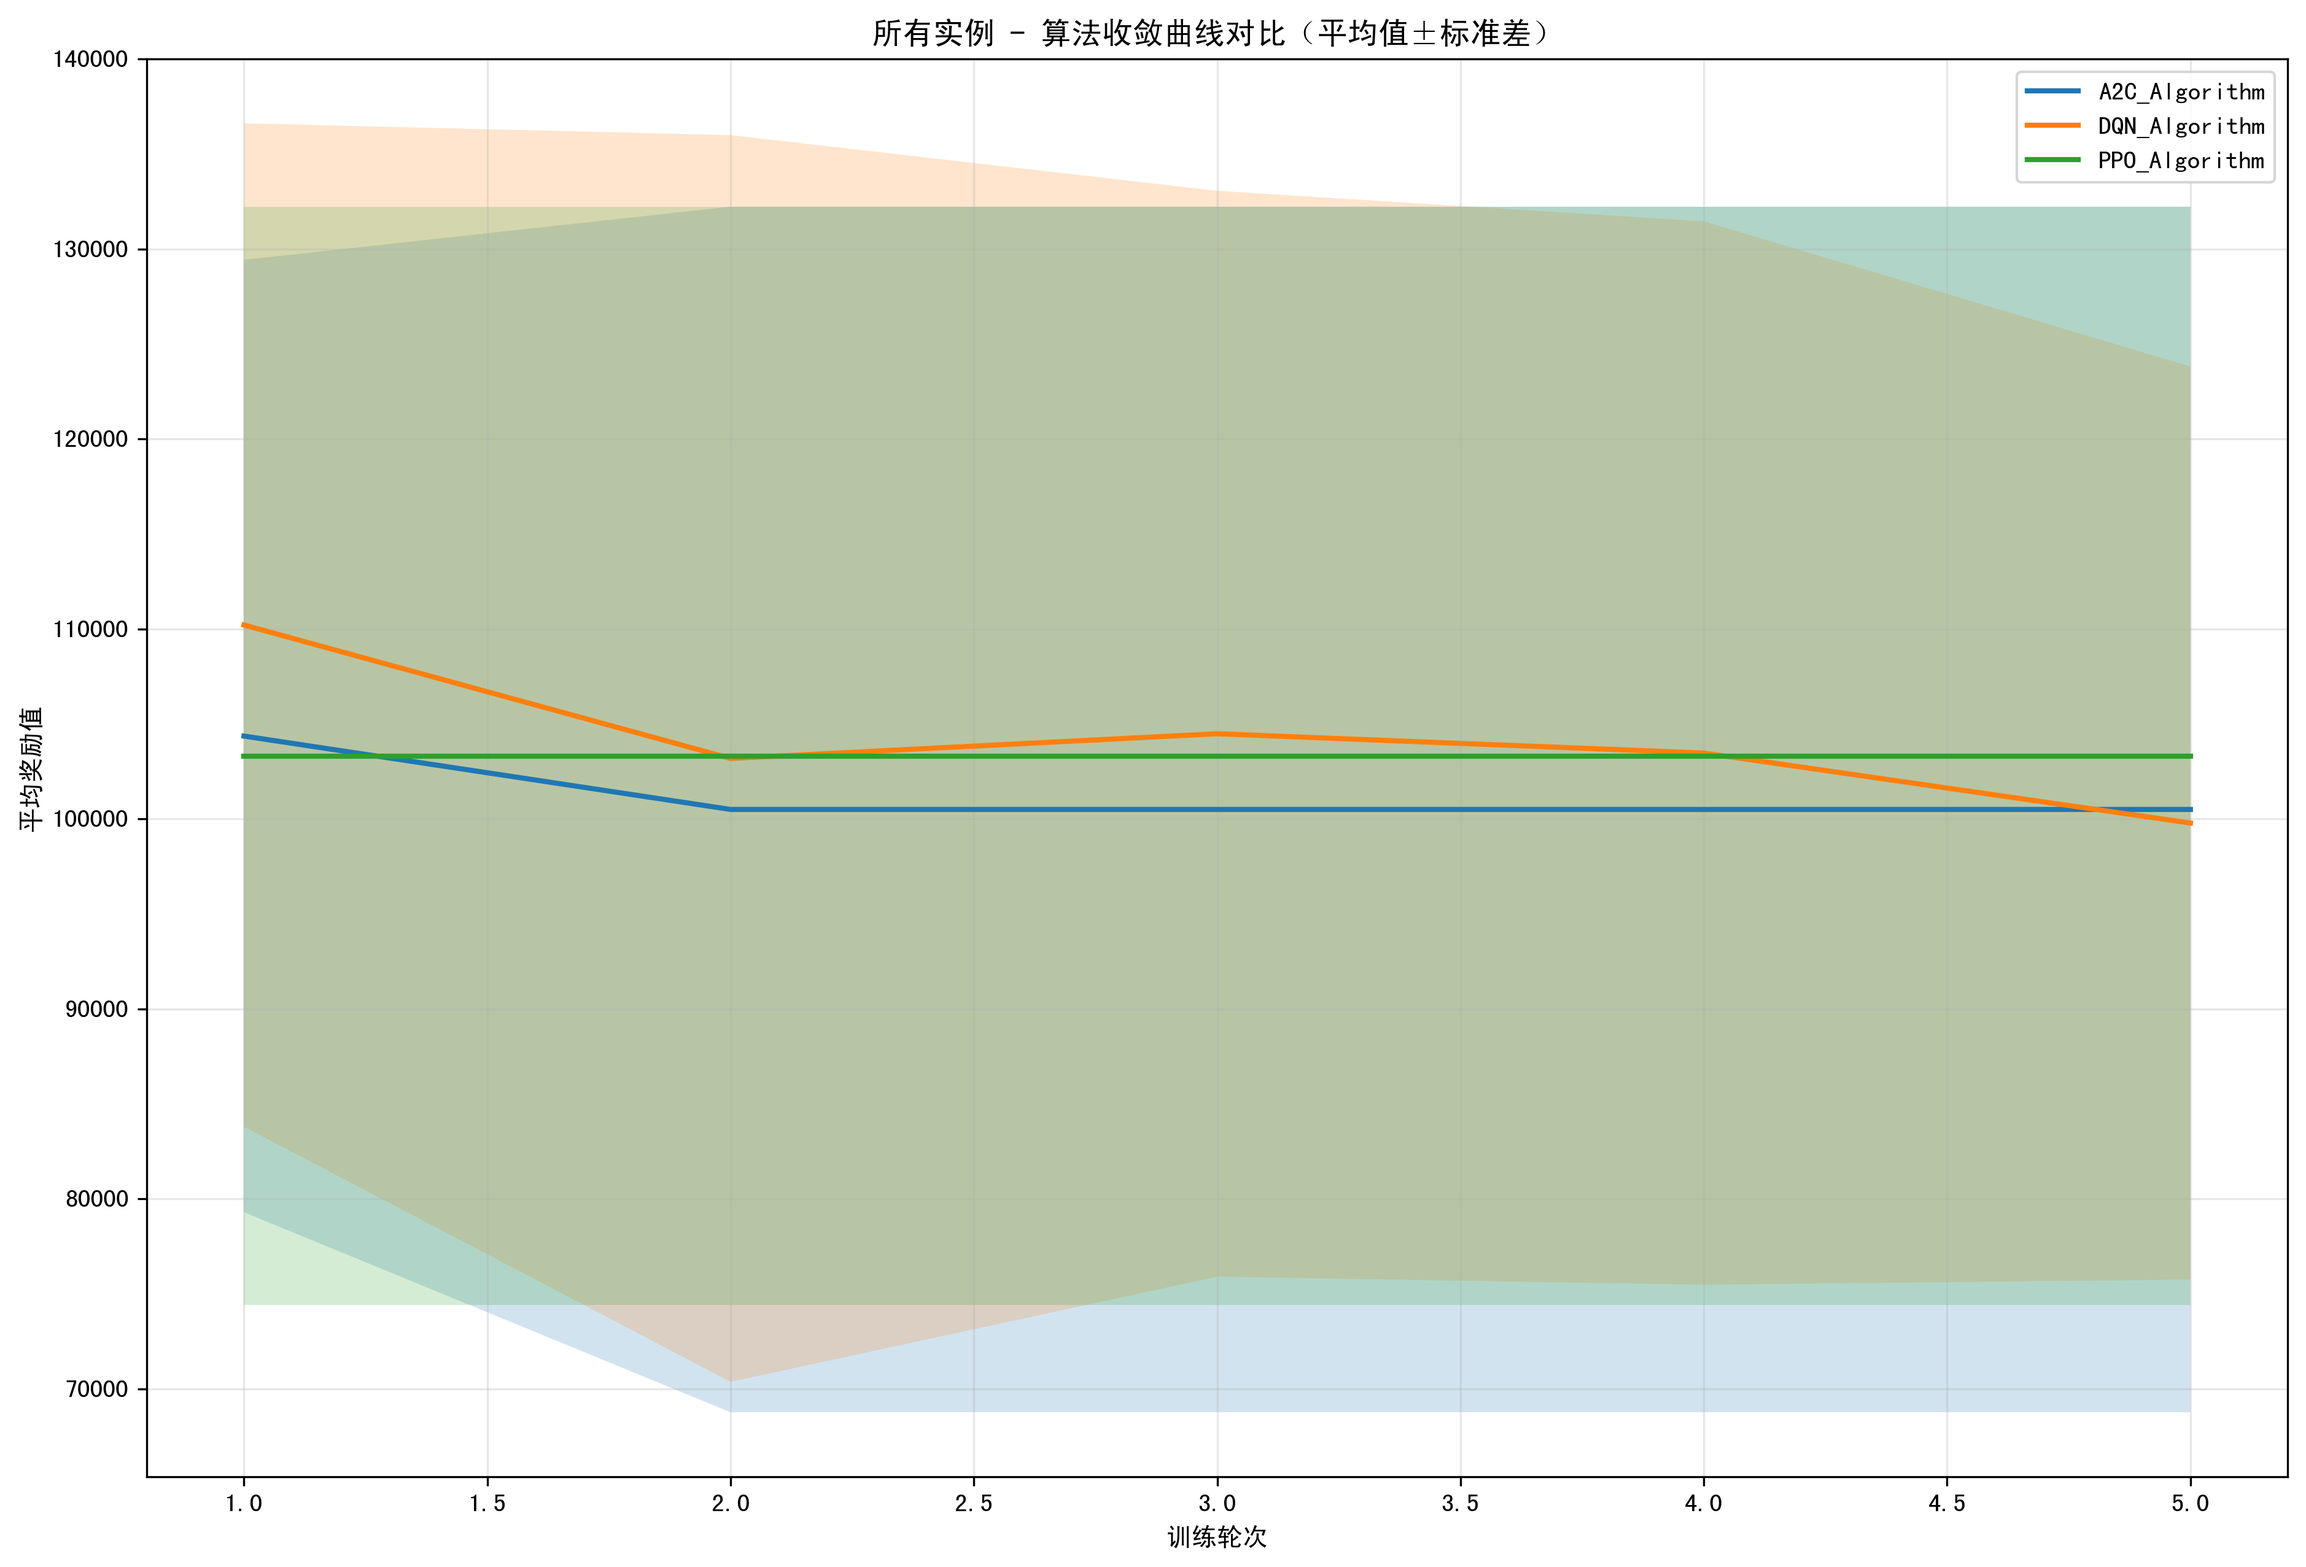
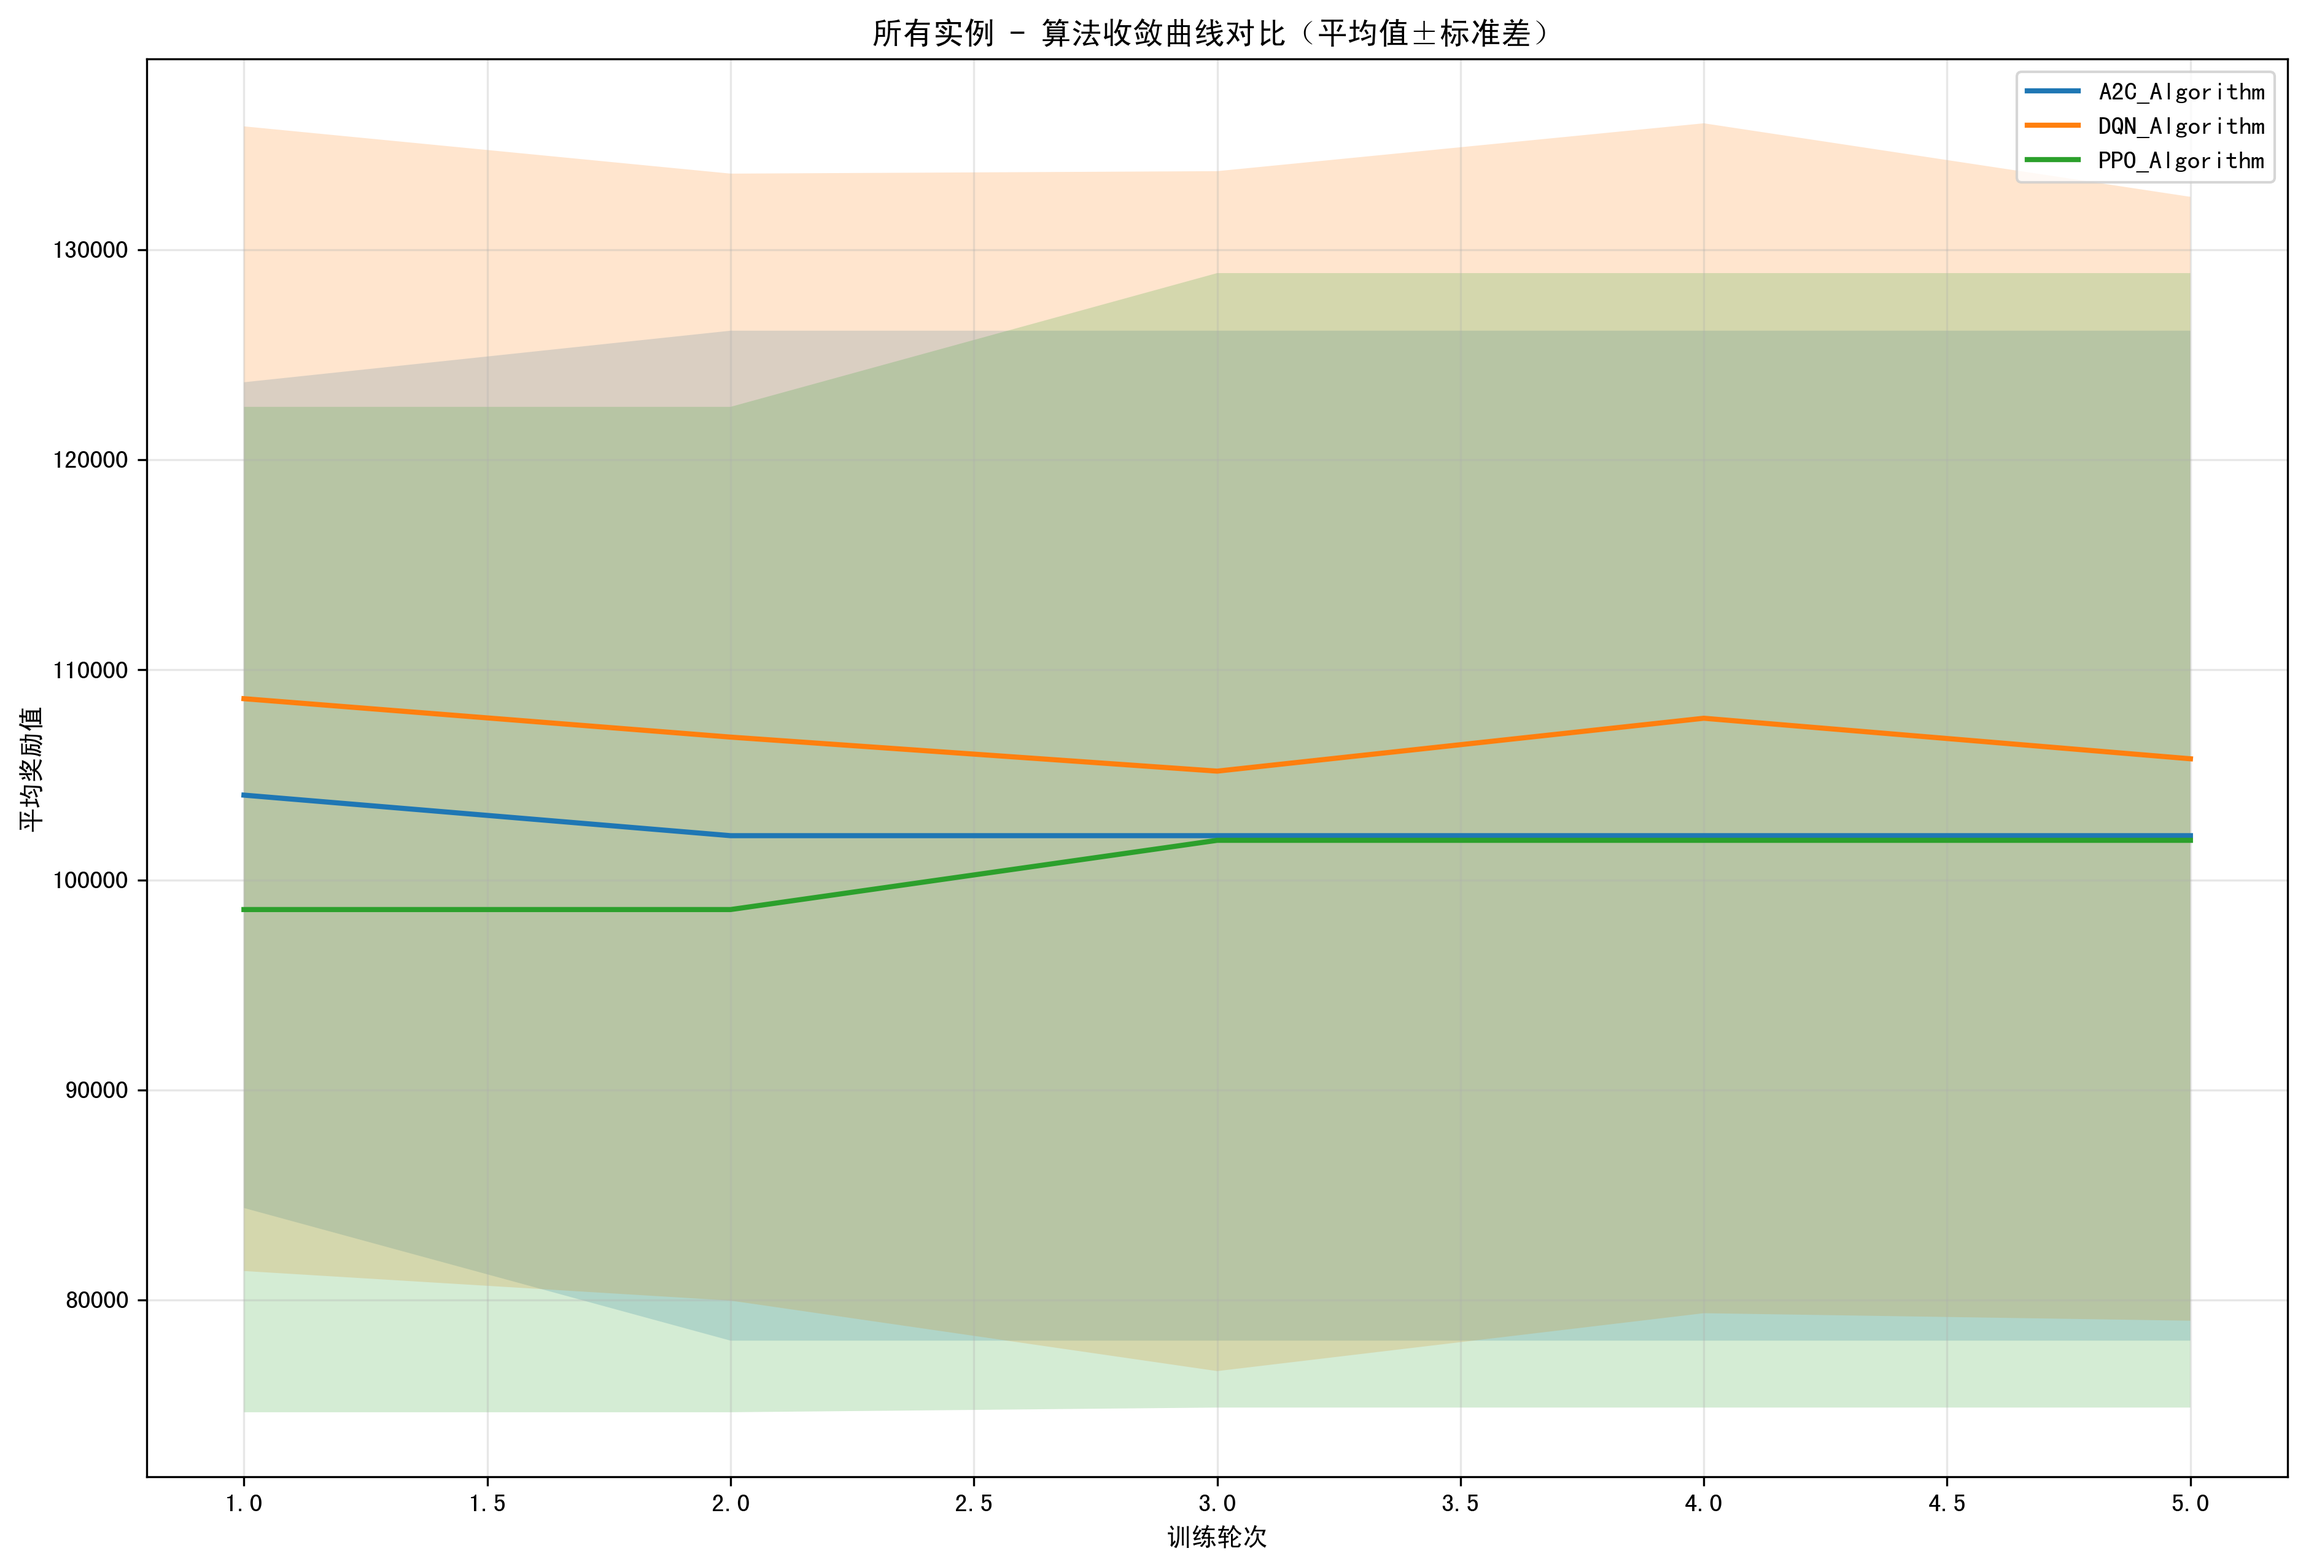
运行启发式

diff --git a/icot_code/experiments/run_heuristic_comparison.py b/icot_code/experiments/run_heuristic_comparison.py
@@ -75,12 +75,9 @@ def main():
     """主实验函数"""
     print("=== 启发式算法对比实验 ===")
     
-    # 定义要测试的实例
-    instances = [
-        # "icot_code/instances/instance_m10_j20_s1.json",
-        "icot_code/instances/instance_m10_j20_s2.json"
-        # "icot_code/instances/instance_m30_j140_s36.json"
-    ]
+    # 自动收集icot_code/instances目录下所有json文件
+    instances_dir = os.path.join(os.path.dirname(os.path.dirname(__file__)), 'instances')
+    instances = [os.path.join(instances_dir, f) for f in os.listdir(instances_dir) if f.endswith('.json')]
     
     all_results = []
     
